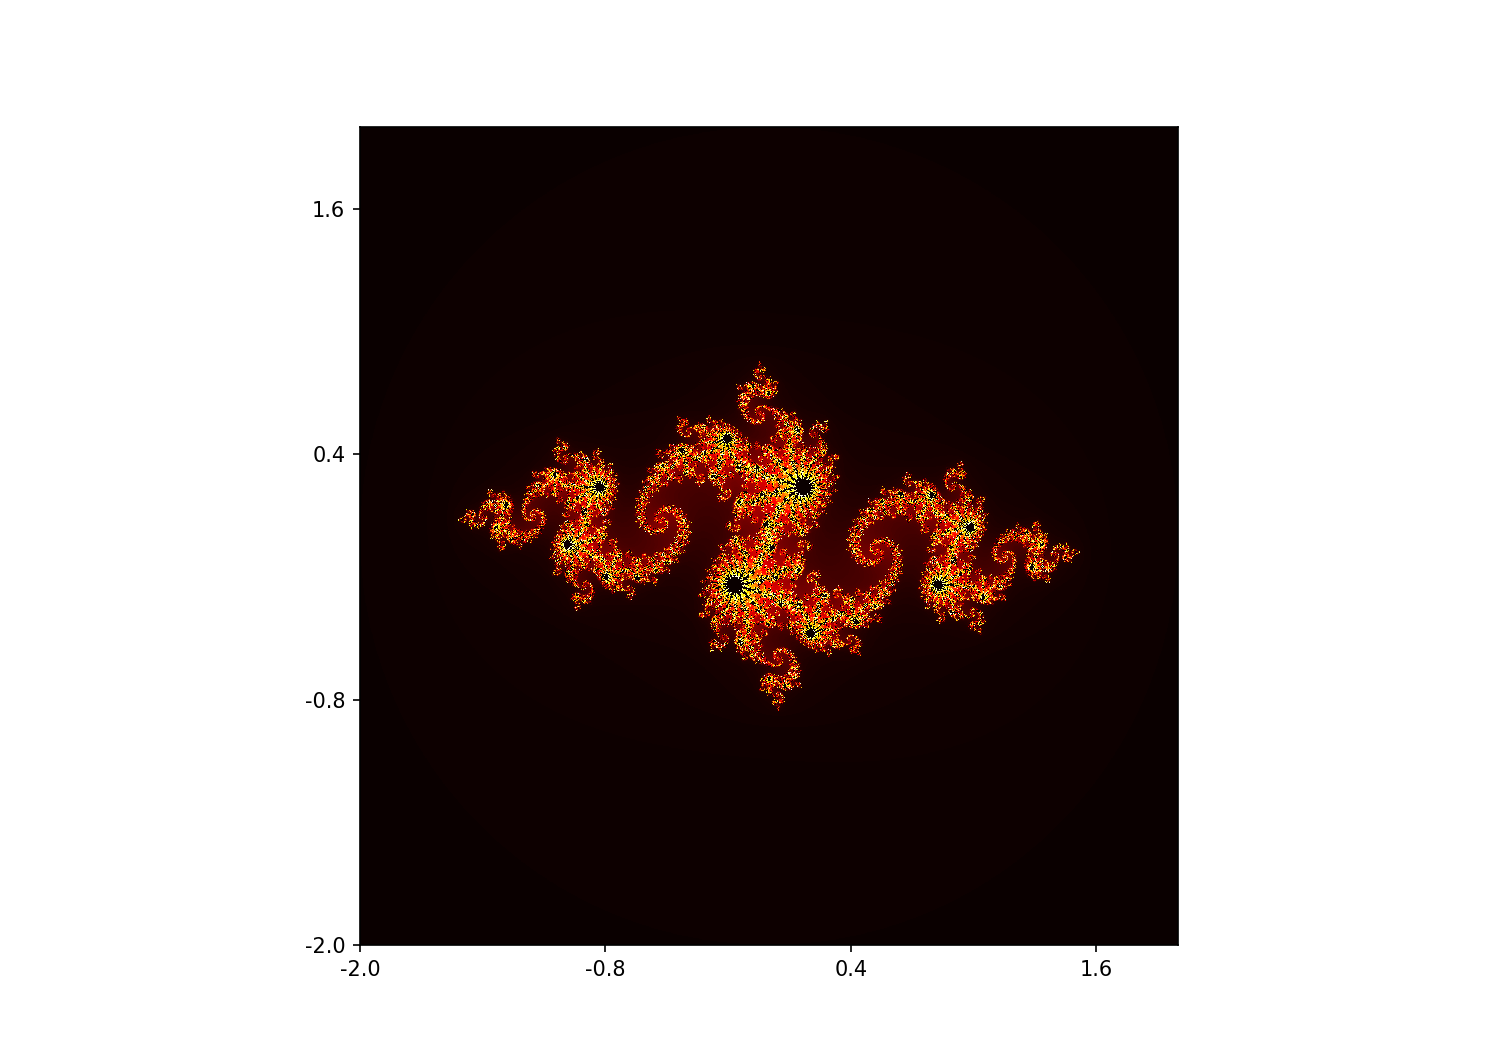
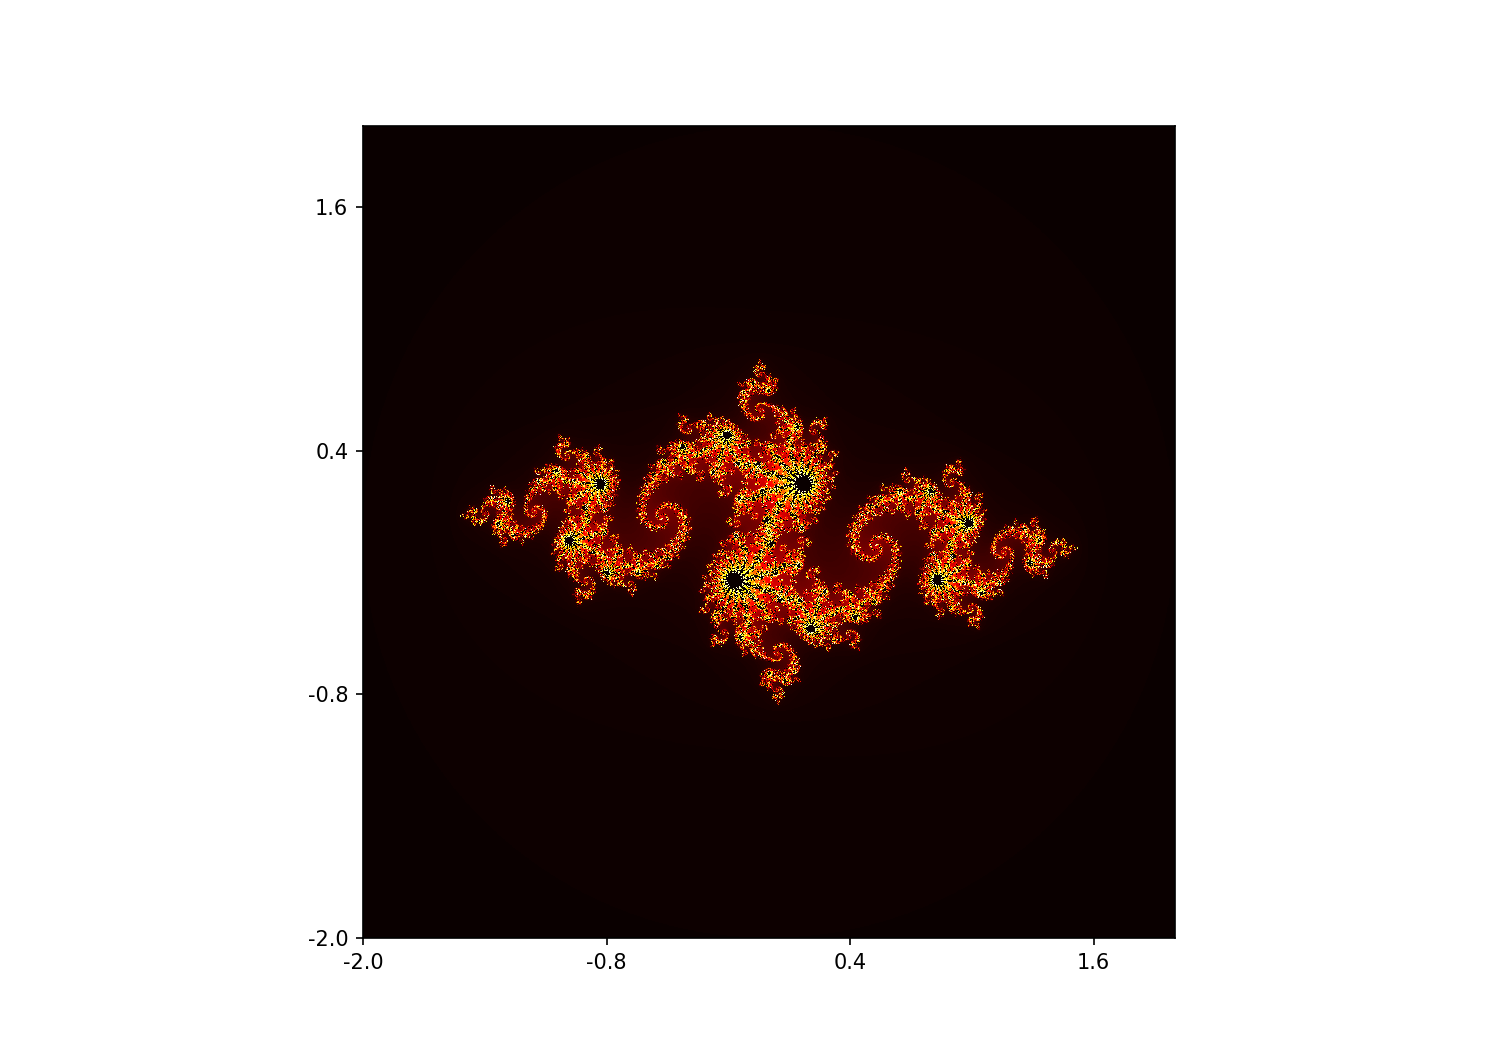
Optimization for burning ship.

diff --git a/fractals.py b/fractals.py
@@ -3,19 +3,22 @@
 import argparse
 import numpy as np
 import matplotlib.pyplot as plt
+import math
 
 DPI = 150
 
 def quadratic(z, c):
     return z*z + c
 
-def burningShip(z, c):
-    return pow(abs(z.real) + 1j*abs(z.imag), 2) + c
+def burningShip(z, c):    
+    return quadratic(math.fabs(z.real) + 1j*math.fabs(z.imag), c)
     
 def iterateFractal(algorithm, c, z0, iterationsNumber):
-    z = z0
+    z = 0
+    if algorithm == "julia":
+        z = z0
     for n in range(iterationsNumber):
-        if abs(z) > 2:
+        if z.real*z.real + z.imag*z.imag > 4:
             return n        
         if algorithm == "mandelbrot":
             z = quadratic(z, z0)
